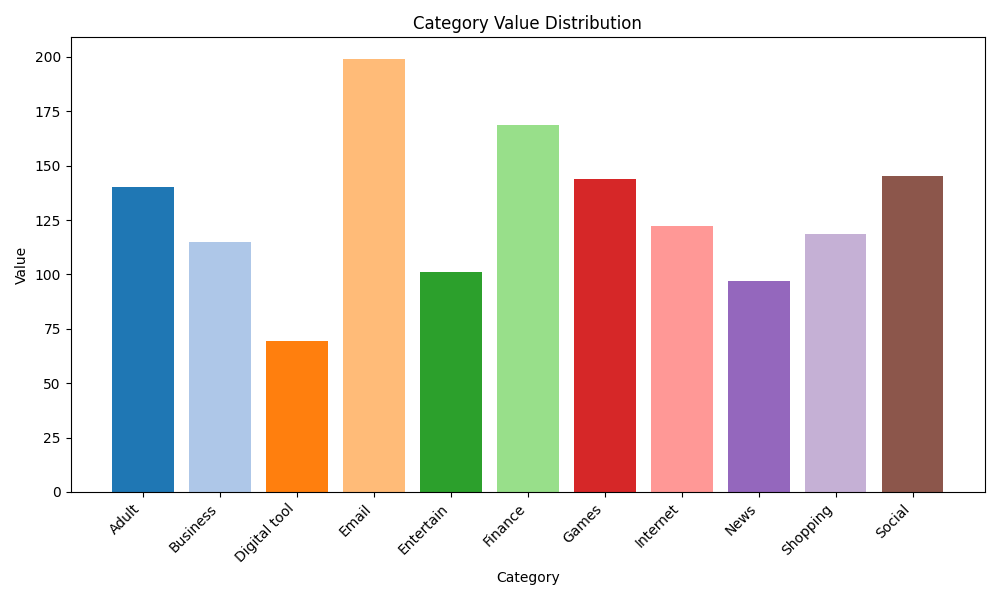
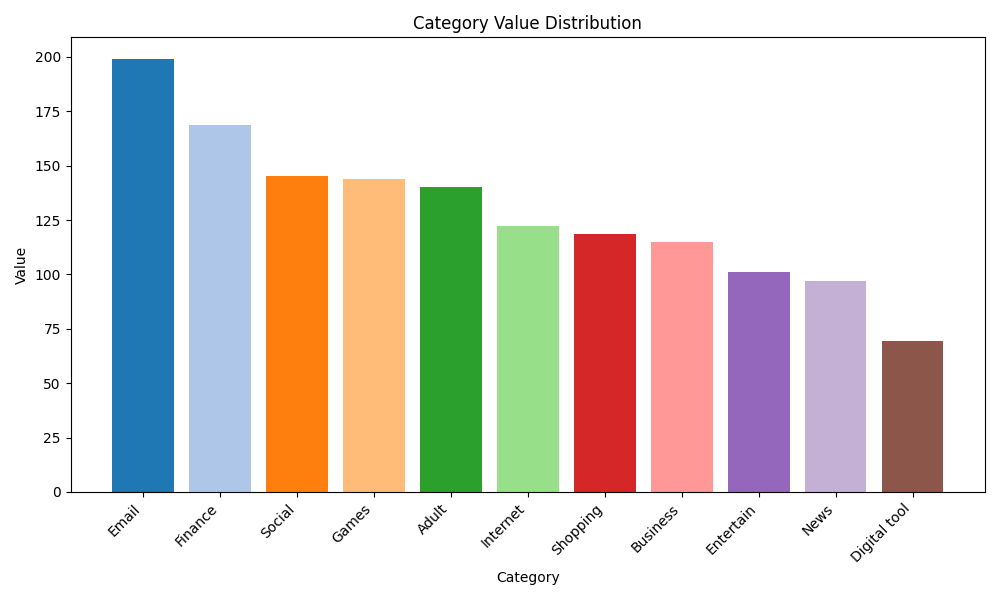
upgraded service analisis ordered plots

diff --git a/plots.py b/plots.py
@@ -583,7 +583,12 @@ def plot_categories_risks(categories_risks):
     plt.figure(figsize=(10,6))
     cmap = plt.get_cmap('tab20')
 
-    plt.bar(categories_risks.iloc[:, 0], categories_risks['Risk sum'], color=cmap.colors)
+    # Order values
+    categories_risks = categories_risks.sort_values('Risk sum', ascending=False)
+
+    X = categories_risks.iloc[:, 0]
+    labels = categories_risks['Risk sum']
+    plt.bar(X, labels, color=cmap.colors)
 
     # Adding labels and title
     plt.xlabel('Category')
@@ -601,8 +606,9 @@ def plot_box_whiskers_servicesrisk(services_risk):
     cmap = plt.get_cmap('tab20')
     colors = cmap.colors
     
-    # Get unique service types
-    labels = services_risk['Type'].unique()
+    # Get unique service types ordered by mean
+    categories_group = services_risk.groupby('Type').mean(numeric_only=True).reset_index().sort_values('Risk sum', ascending=False)
+    labels = categories_group['Type']
     # Clean nan
     labels = [x for x in labels if str(x) != 'nan']
     
